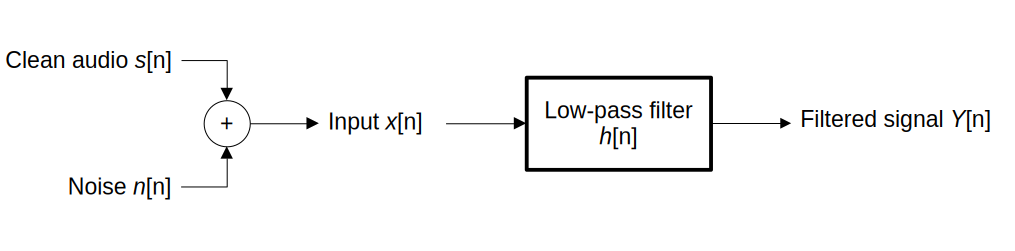
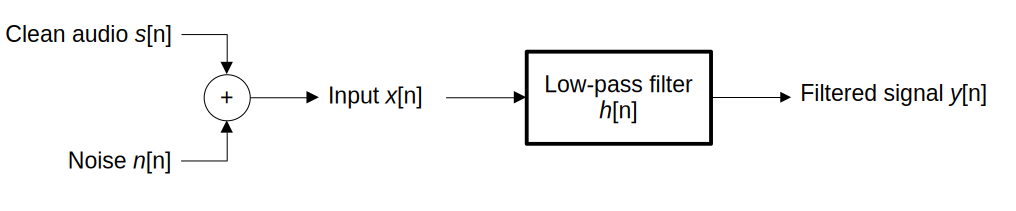
Updated README

diff --git a/README.md b/README.md
@@ -1,2 +1,136 @@
-# Audio-Filtering
-Python script for applying a low pass filter to an audio.
+# Audio Noise Filtering with LTI Low-Pass Filter
+
+A Python project demonstrating high-frequency noise reduction in audio signals using a discrete-time linear time-invariant low-pass filter. This project showcases the addition of artificial high-frequency noise, filtering with a moving average filter, and analysis in both the time- and frequency-domains. This was done as an extra credit for my course, but I enjoyed making it. 
+
+---
+
+## Table of Contents
+1. [Introduction](#introduction)
+2. [Problem Definition](#problem-definition)
+3. [Related Work](#related-work)
+4. [Overview of Approach](#overview-of-approach)
+5. [Methodology](#methodology)
+6. [Parameters](#parameters)
+7. [Objectives](#objectives)
+8. [Usage](#usage)
+9. [Results](#results)
+
+---
+
+## Introduction
+High-frequency noise in audio recordings can reduce clarity and impact human perception, speech recognition, radio astronomy, and other scientific measurements. Learning to filter such noise while preserving signal integrity is very crucial in solving these problems.
+
+This project demonstrates a simple approach for generating, analyzing, and reducing high-frequency noise in audio signals using Python libraries. This project was done on Linux.
+
+---
+
+## Problem Definition
+The system uses a discrete-time LTI low-pass filter applied to an audio signal with high-frequency noise.
+
+Let:
+
+- s[n] = clean audio signal  
+- n[n] = high-frequency noise  
+
+The noisy input signal is:
+
+- x[n] = s[n] + n[n]
+
+The filtering system has impulse response:
+
+- h[n] = 1/N, for n = 0, 1, ..., N-1
+
+where ( N ) is the filter length.  
+
+The output signal ( y[n] ) is obtained by convolution:
+
+- y[n] = x[n] * h[n]
+
+<br>
+
+![Diagram](assets/LTI_System_block_diagram.png)
+
+---
+
+## Related Work
+- Linear filters (low-pass, moving-average) are widely used to reduce high-frequency noise while maintaining signal fidelity.
+- Python-based implementations allow simulation of noise addition, filtering, and visualization in both time- and frequency-domains.
+
+---
+
+## Overview of Approach
+1. Load a clean audio sample.
+2. Generate and add artificial high-frequency noise.
+3. Apply a discrete-time LTI low-pass filter (moving-average).
+4. Compare signals in the time- and frequency-domains.
+5. Evaluate filtering effectiveness and explore parameter adjustments.
+
+---
+
+## Methodology
+- **Libraries Used**:
+  - `numpy` for numerical operations
+  - `matplotlib` for plotting time- and frequency-domain signals
+  - `scipy.signal` for signal-processing utilities
+  - `soundfile` for reading and writing `.wav` audio files
+- **Steps**:
+  1. Load audio and convert stereo to mono if needed.
+  2. Add Gaussian high-frequency noise.
+  3. Save the noisy audio.
+  4. Plot time-domain and frequency-domain comparisons of clean vs noisy signals.
+  5. Apply moving-average LTI low-pass filter.
+  6. Save filtered audio.
+  7. Plot time-domain and frequency-domain comparisons of clean vs filtered signals.
+
+---
+
+## Parameters
+- **Filter Length (N)**: Controls the smoothing and high-frequency attenuation.
+- **Noise Amplitude**: Determines the intensity of added high-frequency noise.
+- **Sample Rate**: Affects time- and frequency-resolution.
+
+---
+
+## Objectives
+- Reduce high-frequency noise in audio signals.
+- Visualize the effect of filtering in both time- and frequency-domains.
+- Test how filter parameters affect noise reduction and signal quality.
+- Preserve the integrity of the original audio signal.
+
+---
+
+## Usage
+1. Place your clean audio sample in `samples/clean_audio.wav`.
+2. Run the Python script:
+
+```bash
+python3 audio_noise_filtering.py
+```
+
+---
+
+## Results
+
+### Time-domain plots:
+![Diagram](assets/time_domain_clean_vs_noisy.png)
+
+- The noisy signal has the same overall shape as the clean signal, but there is a large increase in amplitude across the sample.
+
+<br>
+
+![Diagarm](assets/time_domain_clean_vs_filtered.png)
+
+- The noisy signal has the same overall shape as the clean signal, compared to the noisy signal, it has a much lower amplitude but still not the same as the clean signal
+
+
+
+### Frequency-domain plots:
+![Diagram](assets/frequency_domain_clean_vs_noisy.png)
+
+- The original linear plots looked identical so I had to convert it to a logarithmic scale in order to really even see the difference. The Noisy signal has a larger span of magnitudes than the clean signal and it also remains so across higher frequencies.
+
+<br>
+
+![Diagram](assets/frequency_domain_clean_vs_filtered.png)
+
+- The original linear plots looked identical so I had to convert it to a logarithmic scale in order to really even see the difference. The filtered signal seems to match the same span as the clean signal in terms of magnitudes, but it introduces this new phenomena of the moving average filter's zeros. Essentially certain frequencies cancel out, mimicking a sinusoidal wave.
